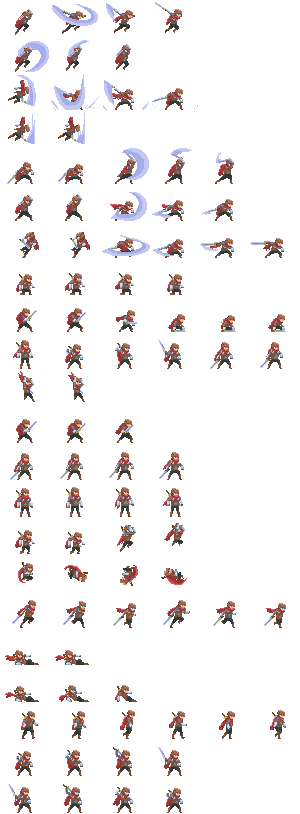
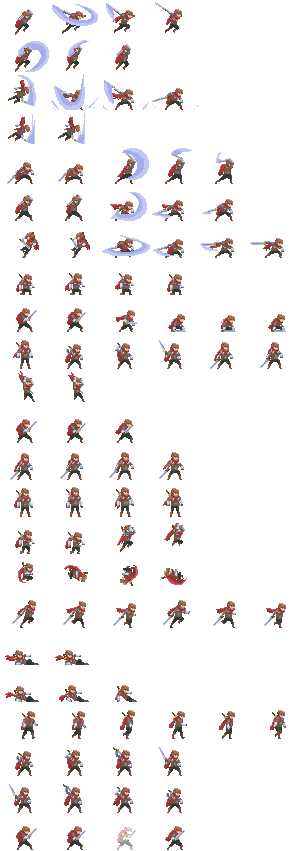
added hit animation when player collides or attacked by enemy

diff --git a/scripts/player.js b/scripts/player.js
@@ -11,6 +11,7 @@ import {
   AttackingAir,
   SlamAir,
   SlamGround,
+  Hit,
 } from "./playerStates.js";
 
 class Player {
@@ -49,6 +50,7 @@ class Player {
       new AttackingAir(this),
       new SlamAir(this),
       new SlamGround(this),
+      new Hit(this),
     ];
     this.currentState = this.states[0];
     this.currentState.enter();
@@ -278,18 +280,7 @@ class Player {
 
   checkCollision() {
     this.game.enemies.forEach((enemy) => {
-      if (!enemy.hasCollided) {
-        if (
-          enemy.hitboxX < this.hitboxX + this.hitboxWidth &&
-          enemy.hitboxX + enemy.hitboxWidth > this.hitboxX &&
-          enemy.hitboxY < this.hitboxY + this.hitboxHeight &&
-          enemy.hitboxY + enemy.hitboxHeight > this.hitboxY
-        ) {
-          console.log("collision");
-          enemy.hasCollided = true;
-          this.lives--;
-        }
-
+      if (!enemy.hasCollided && !this.isAttacking) {
         if (
           enemy.attackBoxX < this.hitboxX + this.hitboxWidth &&
           enemy.attackBoxX + enemy.attackBoxWidth > this.hitboxX &&
@@ -298,6 +289,19 @@ class Player {
           (enemy.frameY === 0 || enemy.frameY === 1)
         ) {
           console.log("attacked");
+          this.setState(11, 0);
+          enemy.hasCollided = true;
+          this.lives--;
+        }
+
+        if (
+          enemy.hitboxX < this.hitboxX + this.hitboxWidth &&
+          enemy.hitboxX + enemy.hitboxWidth > this.hitboxX &&
+          enemy.hitboxY < this.hitboxY + this.hitboxHeight &&
+          enemy.hitboxY + enemy.hitboxHeight > this.hitboxY
+        ) {
+          console.log("collision");
+          this.setState(11, 0);
           enemy.hasCollided = true;
           this.lives--;
         }

diff --git a/scripts/playerStates.js b/scripts/playerStates.js
@@ -10,6 +10,7 @@ const states = {
   ATTACK2: 8,
   SLAMAIR: 9,
   SLAMGROUND: 10,
+  HIT: 11,
 };
 
 class State {
@@ -338,6 +339,25 @@ export class AttackingAir extends State {
       ) {
         this.player.setState(states.IDLE, this.idleSpeed);
       }
+    }
+  }
+}
+
+export class Hit extends State {
+  constructor(player) {
+    super("HIT");
+    this.player = player;
+  }
+  enter() {
+    this.player.frameX = 0;
+    this.player.frameY = 22;
+    this.player.maxFrame = 3;
+  }
+  handleInput(input) {
+    if (this.player.frameX >= 3 && this.player.onGround()) {
+      this.player.setState(states.IDLE, this.idleSpeed);
+    } else if (this.player.frameX >= 3 && !this.player.onGround()) {
+      this.player.setState(states.FALL, this.moveSpeed);
     }
   }
 }

diff --git a/main.js b/main.js
@@ -58,7 +58,7 @@ window.addEventListener("load", () => {
       //     this.enemies.push(new Goblin(this));
       //   }
       // }
-      // this.enemies.push(new Mushroom(this));
+      this.enemies.push(new Mushroom(this));
       // this.enemies.push(new FlyingEye(this));
       // this.enemies.push(new Goblin(this));
       console.log(this.enemies);
